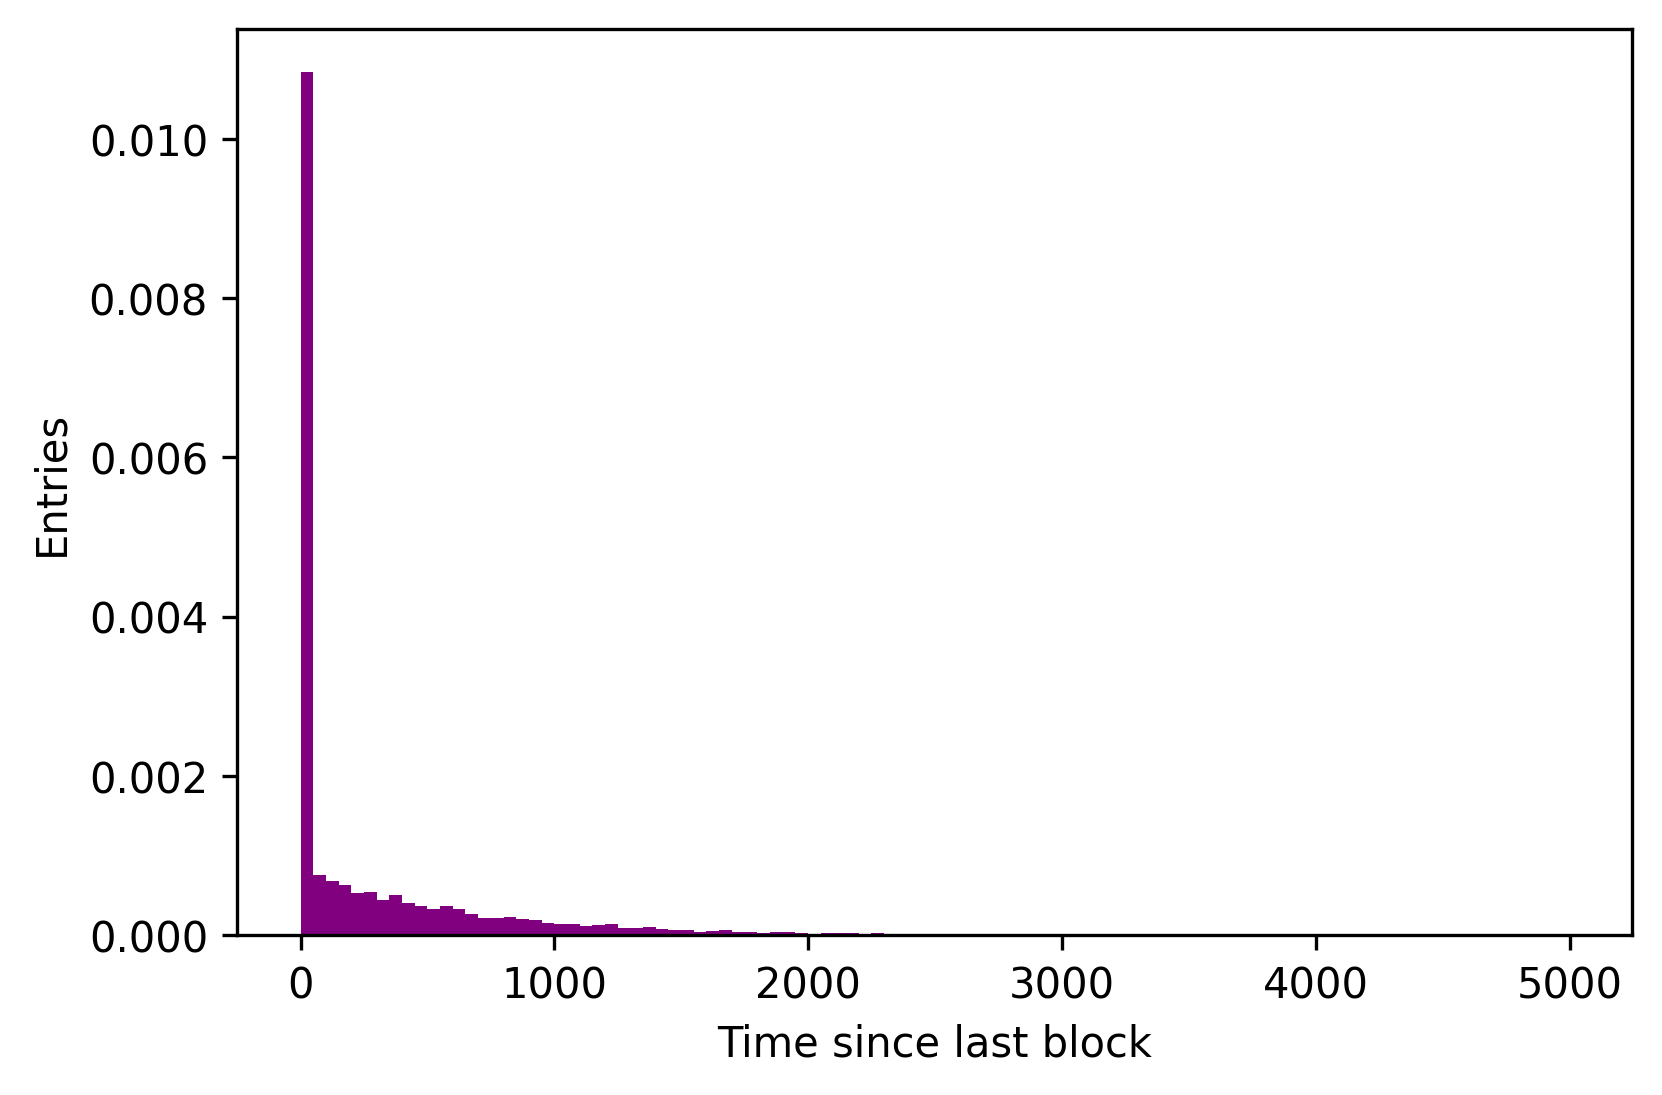
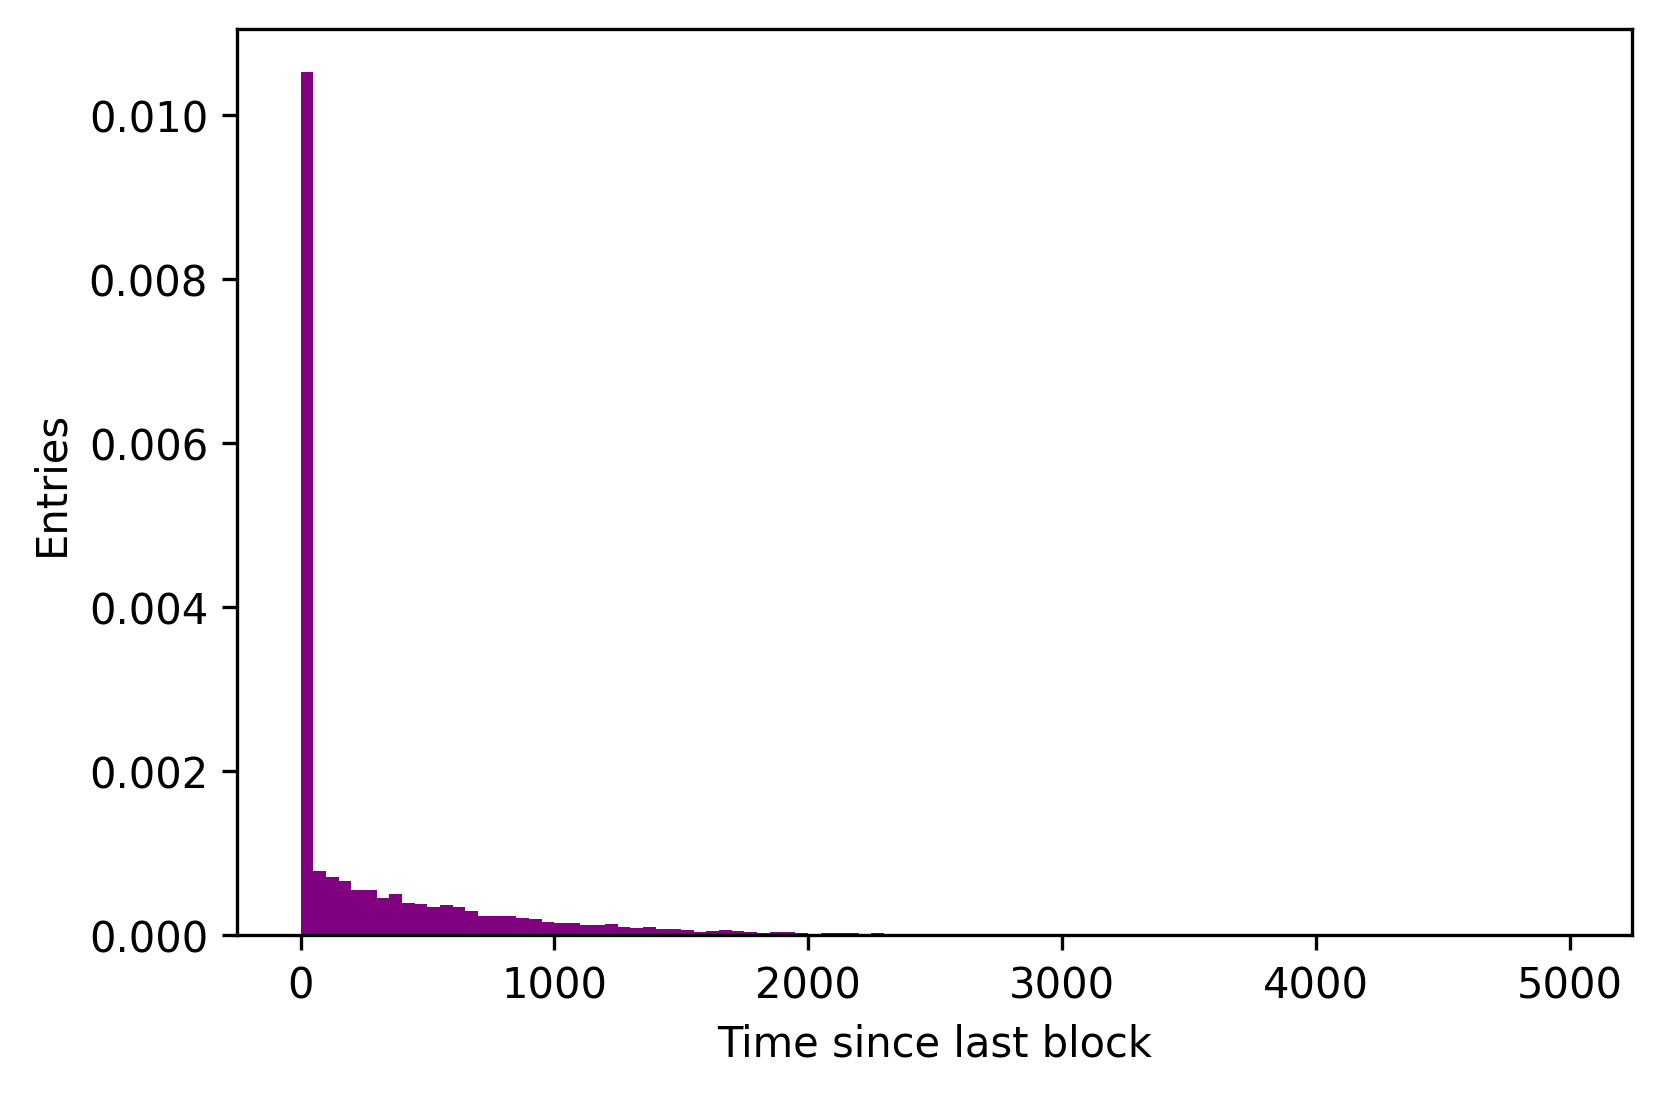
Outputs added

diff --git a/analysis.py b/analysis.py
@@ -7,7 +7,8 @@ import seaborn as sns
 import os
 import sys
 from utils import load_parquets, create_plot, create_histogram, create_histogram2D, compare_thresh, save_fig
-    
+import gc
+
 # Loading blocks, transaction and price parquets
 # =============================================================================
 print("Loading parquets...")
@@ -17,57 +18,42 @@ utxo_dir = "outputs/outputs_946674_946873"
 #utxo_dir = "outputs/"
 prices_dir = "btc_prices.parquet"
 
-# df_blocks = load_parquets(block_dir)
-# df_transactions = load_parquets(transaction_dir)
-# df_prices = pd.read_parquet(prices_dir)
+df_blocks = load_parquets(block_dir)
+df_transactions = load_parquets(transaction_dir)
+df_prices = pd.read_parquet(prices_dir)
 df_utxo = load_parquets(utxo_dir, ["value", "height", "txid"])
 
-# df_blocks = df_blocks.merge(df_prices[["height", "price"]], on="height", how="left")
+df_blocks = df_blocks.merge(df_prices[["height", "price"]], on="height", how="left")
 print("Parquets loaded!")
 
 # =============================================================================
 
 # Calculating variables
 # =============================================================================
-# df = df_blocks    
-# df = df.sort_values("time")
+df = df_blocks    
+df = df.sort_values("time")
 
-# df["datetime"] = pd.to_datetime(df["time"], unit = "s")
-# df["dt"] = df["datetime"].diff()
-# df["dt_sec"] = df["dt"].dt.total_seconds()
-# df["prev_dt"] = df["dt_sec"].shift(1)
-# #df["nTxpertime"] = df["nTx"]/df["dt_sec"]
-# df["size_mb"] = df["size"] / 1e6
-# df["saturation"] = df["weight"]/4e6
-# #df["nTx_next"] = df["nTx"].shift(-1)
-# df["dt_rolling"] = df["dt_sec"].rolling(100, min_periods=20).mean()
-# df["epoch"] = df["height"] // 2016
+df["datetime"] = pd.to_datetime(df["time"], unit = "s")
+df["dt"] = df["datetime"].diff()
+df["dt_sec"] = df["dt"].dt.total_seconds()
+df["prev_dt"] = df["dt_sec"].shift(1)
+#df["nTxpertime"] = df["nTx"]/df["dt_sec"]
+df["size_mb"] = df["size"] / 1e6
+df["saturation"] = df["weight"]/4e6
+#df["nTx_next"] = df["nTx"].shift(-1)
+df["dt_rolling"] = df["dt_sec"].rolling(100, min_periods=20).mean()
+df["epoch"] = df["height"] // 2016
 
-# df_transactions["vsize_mb"] = df_transactions["vsize"]/1e6
-# df_transactions["fee"] = (df_transactions["fee"].astype(float)*100000000.) #btc to sat
-# df_transactions["fee_rate"] = df_transactions["fee"]/df_transactions["vsize"]
+df_transactions["vsize_mb"] = df_transactions["vsize"]/1e6
+df_transactions["fee"] = (df_transactions["fee"].astype(float)*100000000.) #btc to sat
+df_transactions["fee_rate"] = df_transactions["fee"]/df_transactions["vsize"]
 
-# block_stats = df_transactions.groupby("height").agg({ 
-#     "fee": ["sum", "mean"],
-#     "fee_rate": ["mean", "median"],
-#     "vsize": ["sum", "mean", "median"]
-#     })
-df_utxo["value"] = pd.to_numeric(df_utxo["value"], errors="raise")
-
-print("Calculating...")
-df_utxo["value_sat"] = (df_utxo["value"].astype(float)*100000000.) #btc to sat
-utxo_stats = df_utxo.groupby("height").agg({
-    "value" : ["mean", "median"]
+block_stats = df_transactions.groupby("height").agg({ 
+    "fee": ["sum", "mean"],
+    "fee_rate": ["mean", "median"],
+    "vsize": ["sum", "mean", "median"]
     })
 
-tx = df_utxo.groupby(["height", "txid"])["value"].sum().reset_index()
-tx = tx.rename(columns={"value" : "tx_value"})
-
-block_sum = df_utxo.groupby("height")["value"].sum()
-block_avg = tx.groupby("height")["tx_value"].mean()
-block_median = tx.groupby("height")["tx_value"].median()
-block_p90 = tx.groupby("height")["tx_value"].quantile(0.9)
-block_p10 = tx.groupby("height")["tx_value"].quantile(0.1)
 print("Calculations done!")
 print("Plotting...")
 # =============================================================================
@@ -75,41 +61,6 @@ print("Plotting...")
 # =============================================================================
 # Analysis part
 # =============================================================================
-
-
-# =============================================================================
-# Analysis of UTXO set
-# =============================================================================
-
-os.makedirs("plots/utxo", exist_ok=True)
-
-create_plot(block_avg.index, block_avg, "UTXO value median per block [btc]", "Entries", "plots/utxo/hist_median_utxo.png", color="blue")
-
-create_histogram(df_utxo["value"], "UTXO value [btc]", "Entries", "plots/utxo/hist_utxo.png", xlim=(5e-7, 3e4), nbins=1000, logx=True, logx_bins=True, logy=True, color="cyan")
-create_histogram(utxo_stats["value"]["median"], "UTXO value median per block [btc]", "Entries", "plots/utxo/hist_median_utxo.png", xlim=(2e-6, 1e-2),nbins=400, logx=True, logx_bins=True, logy=True, color="cyan")
-create_histogram(utxo_stats["value"]["mean"], "UTXO value mean per block [btc]", "Entries", "plots/utxo/hist_mean_utxo.png", xlim=(1e-4, 1e2),nbins=400, logx=True, logx_bins=True, logy=True, color="cyan")
-create_histogram(block_sum, "Sum of value per block [btc]", "Entries", "plots/utxo/hist_sum.png", xlim=(1e0, 1e5),nbins=400, logx=True, logx_bins=True, logy=True, color="cyan")
-create_histogram(block_avg, "Average transaction value per block [btc]", "Entries", "plots/utxo/hist_avg_transaction.png", xlim=(1e-4, 1e3),nbins=400, logx=True, logx_bins=True, logy=True, color="cyan")
-create_histogram(block_p90, "90% quantile of transaction value per block [btc]", "Entries", "plots/utxo/hist_value_p90.png", xlim=(1e-5, 1e1),nbins=400, logx=True, logx_bins=True, logy=True, color="cyan")
-create_histogram(block_p10, "10% quantile of transaction value per block [btc]", "Entries", "plots/utxo/hist_value_p10.png", xlim=(1e-6, 5e-3),nbins=400, logx=True, logx_bins=True, logy=True, color="cyan")
-
-print(df_utxo["value"].dtype)
-print((df_utxo["value"] == 0).sum())
-print(df_utxo.groupby("height")["value"].median().head(20))
-print(df_utxo["value"].describe(percentiles=[0.5, 0.9, 0.99, 0.999]))
-print("max BTC:", df_utxo["value"].max())
-
-sys.exit()
-
-
-
-
-
-
-
-
-
-
 
 
 # Time between blocks and the Poisson fit
@@ -249,19 +200,65 @@ plt.tight_layout()
 plt.savefig("plots/correlation.png", dpi=300, bbox_inches="tight")
 plt.show()
 
+
+
+del df_transactions
+del df_blocks
+del df_prices
+del df
+gc.collect()
+
+
 # # =============================================================================
 # # Analysis of UTXO set
 # # =============================================================================
 
-# os.makedirs("plots/utxo", exist_ok=True)
+# =============================================================================
+# Analysis of UTXO set
+# =============================================================================
+df_utxo = load_parquets(utxo_dir, ["value", "height", "txid"])
 
-# create_histogram(df_utxo["value"], "UTXO value [btc]", "Entries", "plots/utxo/hist_utxo.png", color="purple")
+df_utxo["value"] = pd.to_numeric(df_utxo["value"], errors="raise")
 
-# utxo_stats = df_utxo.groupby("height").agg({
-#     "value" : ["mean", "median"]
-#     })
+print("Calculating...")
+utxo_stats = df_utxo.groupby("height").agg({
+    "value" : ["mean", "median"]
+    })
 
-# create_plot(df_utxo["height"], utxo_stats["value"]["mean"], "Block height","Block mean value of UTXO [btc]", "plots/utxo/virt_size_sum.png", color="blue", s=1)
+tx = df_utxo.groupby(["height", "txid"])["value"].sum().reset_index()
+tx = tx.rename(columns={"value" : "tx_value"})
+
+block_sum = df_utxo.groupby("height")["value"].sum()
+block_avg = tx.groupby("height")["tx_value"].mean()
+block_median = tx.groupby("height")["tx_value"].median()
+block_p90 = tx.groupby("height")["tx_value"].quantile(0.9)
+block_p10 = tx.groupby("height")["tx_value"].quantile(0.1)
+tx_count = tx.groupby("height")["tx_value"].size()
+block_avg_med = block_avg/block_median
+
+del tx
+gc.collect()
+
+os.makedirs("plots/utxo", exist_ok=True)
+
+create_plot(block_avg.index, block_avg, "Block height", "Entries", "plots/utxo/hist_median_utxo.png", color="blue")
+
+create_histogram(df_utxo["value"], "UTXO value [btc]", "Entries", "plots/utxo/hist_utxo.png", xlim=(5e-7, 3e4), nbins=1000, logx=True, logx_bins=True, logy=True, color="cyan")
+create_histogram(utxo_stats["value"]["median"], "UTXO value median per block [btc]", "Entries", "plots/utxo/hist_median_utxo.png", xlim=(2e-6, 1e-2),nbins=400, logx=True, logx_bins=True, logy=True, color="cyan")
+create_histogram(utxo_stats["value"]["mean"], "UTXO value mean per block [btc]", "Entries", "plots/utxo/hist_mean_utxo.png", xlim=(1e-4, 1e2),nbins=400, logx=True, logx_bins=True, logy=True, color="cyan")
+create_histogram(block_sum, "Sum of value per block [btc]", "Entries", "plots/utxo/hist_sum.png", xlim=(1e0, 1e5),nbins=400, logx=True, logx_bins=True, logy=True, color="cyan")
+create_histogram(block_avg, "Average transaction value per block [btc]", "Entries", "plots/utxo/hist_avg_transaction.png", xlim=(1e-4, 1e3),nbins=400, logx=True, logx_bins=True, logy=True, color="cyan")
+create_histogram(block_p90, "90% quantile of transaction value per block [btc]", "Entries", "plots/utxo/hist_value_p90.png", xlim=(1e-5, 1e1),nbins=400, logx=True, logx_bins=True, logy=True, color="cyan")
+create_histogram(block_p10, "10% quantile of transaction value per block [btc]", "Entries", "plots/utxo/hist_value_p10.png", xlim=(1e-6, 5e-3),nbins=400, logx=True, logx_bins=True, logy=True, color="cyan")
+create_histogram(block_avg_med, "Average transaction value/median transaction value per block [btc]", "Entries", "plots/utxo/hist_avg_transaction.png", xlim=(1e-4, 1e3),nbins=400, logx=True, logx_bins=True, logy=True, color="cyan")
+create_histogram(tx_count, "Transaction count", "Entries", "plots/utxo/hist_value_p10.png", xlim=(1e-6, 5e-3),nbins=400, logx=True, logx_bins=True, logy=True, color="cyan")
+
+
+print(df_utxo["value"].dtype)
+print((df_utxo["value"] == 0).sum())
+print(df_utxo.groupby("height")["value"].median().head(20))
+print(df_utxo["value"].describe(percentiles=[0.5, 0.9, 0.99, 0.999]))
+print("max BTC:", df_utxo["value"].max())
 
 
 